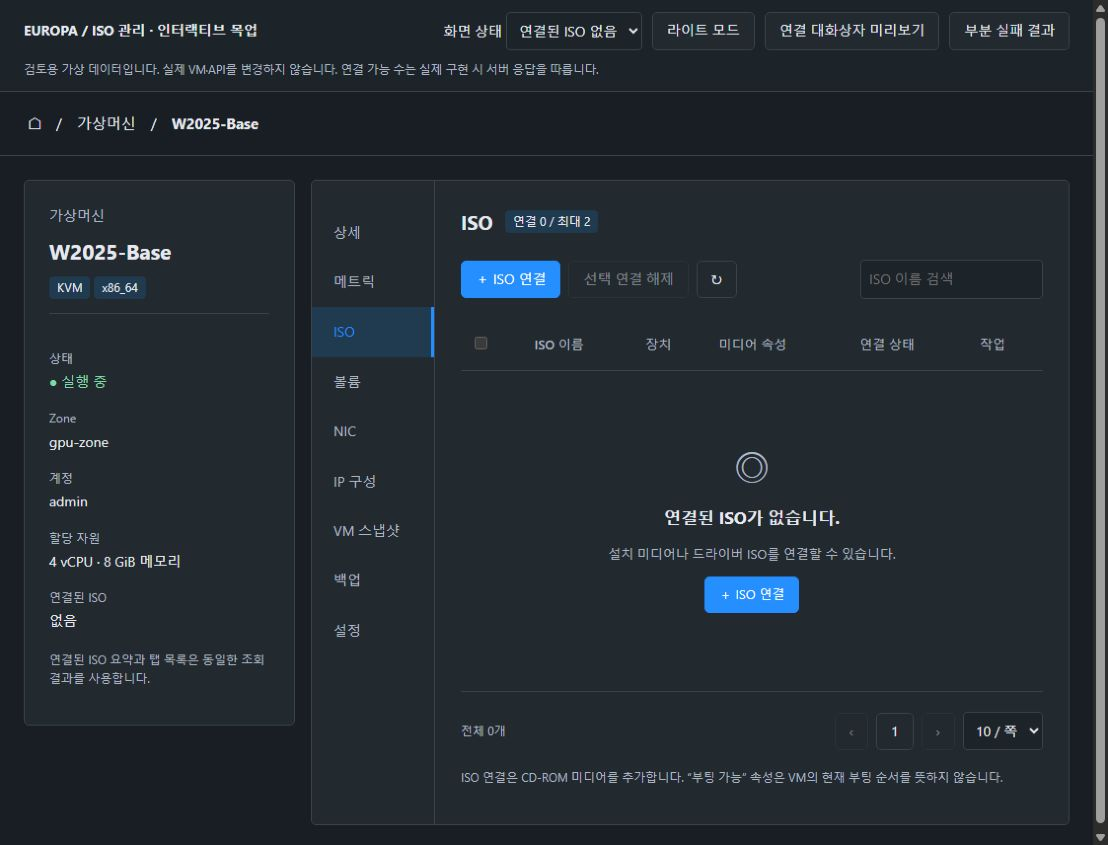
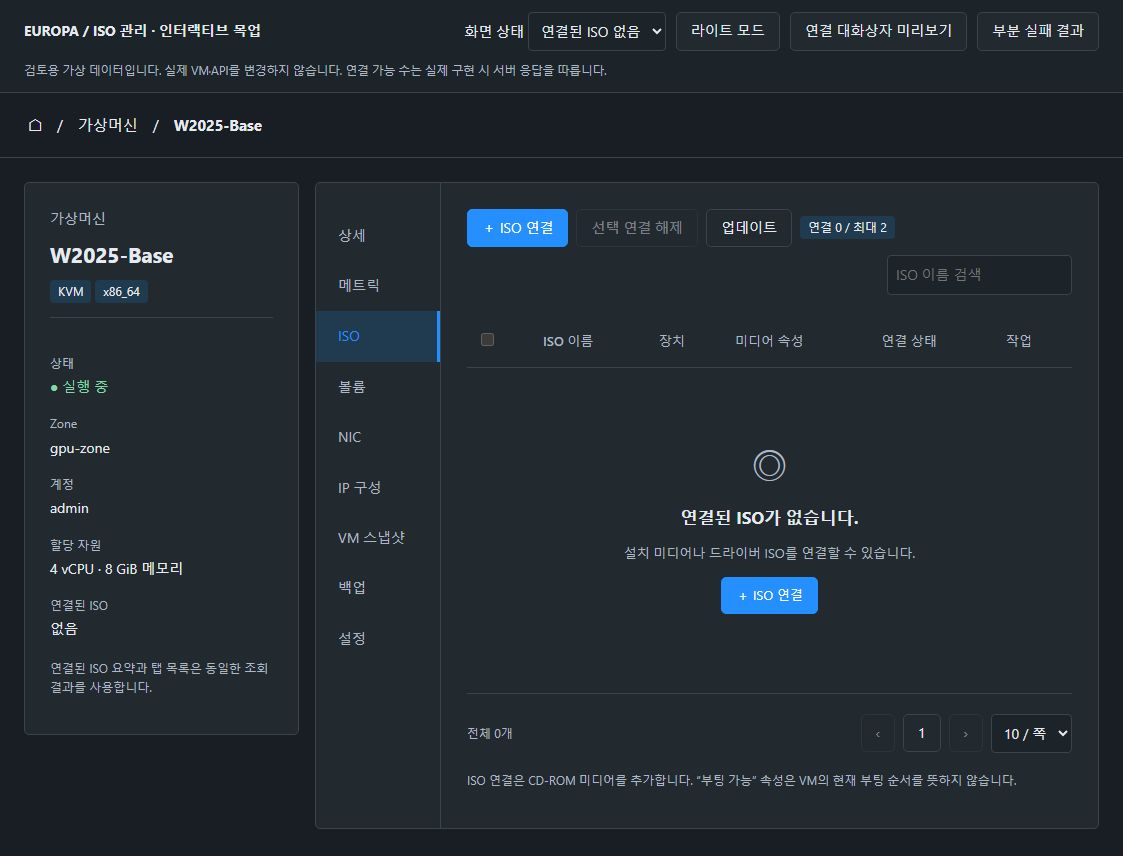
docs: ISO 목업 타이틀 제거 및 업데이트 텍스트 버튼 적용

diff --git a/docs/design/iso-tab-20260918/mockup.html b/docs/design/iso-tab-20260918/mockup.html
@@ -5,7 +5,7 @@
 </style>
 <div class="lab"><strong>EUROPA / ISO 관리 · 인터랙티브 목업</strong><label>화면 상태 <select id="scenario"><option value="two">ISO 2개 연결됨</option><option value="empty">연결된 ISO 없음</option><option value="one">ISO 1개 연결됨</option><option value="error">목록 조회 실패</option><option value="readonly">조회 전용</option></select></label><button id="theme">라이트 모드</button><button onclick="openModal('attach',true)">연결 대화상자 미리보기</button><button onclick="openModal('result')">부분 실패 결과</button><small>검토용 가상 데이터입니다. 실제 VM·API를 변경하지 않습니다. 연결 가능 수는 실제 구현 시 서버 응답을 따릅니다.</small></div>
 <div class="top">⌂　/　가상머신　/　<strong>W2025-Base</strong></div>
-<div class="layout"><aside class="card"><div class="muted">가상머신</div><h2>W2025-Base</h2><span class="tag">KVM</span> <span class="tag">x86_64</span><dl><dt>상태</dt><dd class="green">● 실행 중</dd><dt>Zone</dt><dd>gpu-zone</dd><dt>계정</dt><dd>admin</dd><dt>할당 자원</dt><dd>4 vCPU · 8 GiB 메모리</dd><dt>연결된 ISO</dt><dd id="summary"></dd></dl><p class="note">연결된 ISO 요약과 탭 목록은 동일한 조회 결과를 사용합니다.</p></aside><section class="content"><nav class="tabs"><div>상세</div><div>메트릭</div><div class="active">ISO</div><div>볼륨</div><div>NIC</div><div>IP 구성</div><div>VM 스냅샷</div><div>백업</div><div>설정</div></nav><main><div class="title"><h2>ISO</h2><span id="count" class="tag"></span></div><div class="toolbar"><button id="attach" class="primary" onclick="openModal('attach')">＋ ISO 연결</button><button id="batch" onclick="openDetach(selectedRows())" disabled>선택 연결 해제</button><button onclick="render()" aria-label="새로고침" title="새로고침">↻</button><input class="search" id="search" placeholder="ISO 이름 검색" aria-label="ISO 이름 검색"></div><div id="banner"></div><div class="listwrap"><table><thead><tr><th><input type="checkbox" id="all" aria-label="전체 선택" onchange="document.querySelectorAll('.pick').forEach(x=>x.checked=this.checked); updateBatch()"></th><th>ISO 이름</th><th>장치</th><th>미디어 속성</th><th>연결 상태</th><th>작업</th></tr></thead><tbody id="rows"></tbody></table></div><div class="pager"><span id="total"></span><button disabled>‹</button><button aria-current="page">1</button><button disabled>›</button><select aria-label="페이지 크기"><option>10 / 쪽</option><option>20 / 쪽</option></select></div><p class="note">ISO 연결은 CD-ROM 미디어를 추가합니다. “부팅 가능” 속성은 VM의 현재 부팅 순서를 뜻하지 않습니다.</p></main></section></div>
+<div class="layout"><aside class="card"><div class="muted">가상머신</div><h2>W2025-Base</h2><span class="tag">KVM</span> <span class="tag">x86_64</span><dl><dt>상태</dt><dd class="green">● 실행 중</dd><dt>Zone</dt><dd>gpu-zone</dd><dt>계정</dt><dd>admin</dd><dt>할당 자원</dt><dd>4 vCPU · 8 GiB 메모리</dd><dt>연결된 ISO</dt><dd id="summary"></dd></dl><p class="note">연결된 ISO 요약과 탭 목록은 동일한 조회 결과를 사용합니다.</p></aside><section class="content"><nav class="tabs"><div>상세</div><div>메트릭</div><div class="active">ISO</div><div>볼륨</div><div>NIC</div><div>IP 구성</div><div>VM 스냅샷</div><div>백업</div><div>설정</div></nav><main><div class="toolbar"><button id="attach" class="primary" onclick="openModal('attach')">＋ ISO 연결</button><button id="batch" onclick="openDetach(selectedRows())" disabled>선택 연결 해제</button><button onclick="render()">업데이트</button><span id="count" class="tag"></span><input class="search" id="search" placeholder="ISO 이름 검색" aria-label="ISO 이름 검색"></div><div id="banner"></div><div class="listwrap"><table><thead><tr><th><input type="checkbox" id="all" aria-label="전체 선택" onchange="document.querySelectorAll('.pick').forEach(x=>x.checked=this.checked); updateBatch()"></th><th>ISO 이름</th><th>장치</th><th>미디어 속성</th><th>연결 상태</th><th>작업</th></tr></thead><tbody id="rows"></tbody></table></div><div class="pager"><span id="total"></span><button disabled>‹</button><button aria-current="page">1</button><button disabled>›</button><select aria-label="페이지 크기"><option>10 / 쪽</option><option>20 / 쪽</option></select></div><p class="note">ISO 연결은 CD-ROM 미디어를 추가합니다. “부팅 가능” 속성은 VM의 현재 부팅 순서를 뜻하지 않습니다.</p></main></section></div>
 <div class="overlay" id="overlay" hidden><section class="modal" role="dialog" aria-modal="true" aria-labelledby="modalTitle"><header><h2 id="modalTitle"></h2><button onclick="closeModal()" aria-label="닫기">×</button></header><div class="body" id="body"></div><footer id="footer"></footer></section></div>
 <script>
 const data=[{id:'windows',name:'Windows Server 2025 x86_64 DVD',file:'Windows_Server_2025.iso',slot:'hdc',boot:true,size:'5.9 GiB'},{id:'virtio',name:'VirtIO Windows 드라이버',file:'virtio-win-0.1.285.iso',slot:'hdd',boot:false,size:'701 MiB'}];let attached=[...data],mode='two',modalType='',detachIds=[],preview=false,previousFocus=null;const $=id=>document.getElementById(id);const context=()=>'<div class="context"><div><span>가상머신</span>W2025-Base</div><div><span>Zone / 계정</span>gpu-zone / admin</div></div>';
@@ -23,4 +23,6 @@ function openDetach(ids){detachIds=ids;document.querySelectorAll('.menu').forEac
 function openDetails(id){const x=data.find(x=>x.id===id);show('ISO 상세',context()+`<dl><dt>이름</dt><dd>${x.name}</dd><dt>파일</dt><dd>${x.file}</dd><dt>장치</dt><dd>${x.slot}</dd><dt>연결 상태</dt><dd class="green">연결됨</dd><dt>미디어 속성</dt><dd>${x.boot?'부팅 가능':'데이터 미디어'}</dd><dt>크기</dt><dd>${x.size}</dd><dt>Zone</dt><dd>gpu-zone</dd></dl><p class="note">장치와 연결 상태는 최신 VM 조회 결과를 기준으로 표시합니다.</p>`,'<button class="primary" onclick="closeModal()">닫기</button>')}
 document.addEventListener('keydown',e=>{if($('overlay').hidden)return;if(e.key==='Escape')closeModal();if(e.key==='Tab'){const els=[...document.querySelectorAll('.modal button:not(:disabled),.modal input:not(:disabled)')].filter(x=>x.offsetParent!==null);const first=els[0],last=els[els.length-1];if(e.shiftKey&&document.activeElement===first){e.preventDefault();last.focus()}else if(!e.shiftKey&&document.activeElement===last){e.preventDefault();first.focus()}}});render();
 </script></html>
+
+
 

diff --git a/docs/design/iso-tab-20260918/README.md b/docs/design/iso-tab-20260918/README.md
@@ -10,8 +10,8 @@
 
 ## 화면 설계
 
-- ISO 0개여도 탭 유지. 볼륨/VM 스냅샷 형태의 툴바와 테이블, 검색, 페이지 구성.
-- 연결 버튼 → 선택 연결 해제 → 새로고침 아이콘 → 우측 검색.
+- 탭 내부 타이틀 없이 툴바부터 시작. ISO 0개여도 탭 유지. 볼륨/VM 스냅샷 형태의 툴바와 테이블, 검색, 페이지 구성.
+- 연결 버튼 → 선택 연결 해제 → 업데이트 텍스트 버튼 → 우측 검색.
 - 장치별 ISO 행과 연결 상태. 좌측 요약도 같은 최신 데이터로 갱신.
 - 행 작업은 연결 해제 → 상세 순서. 파일 삭제 또는 부팅 순서 변경과 구분.
 - 연결 대화상자: VM/Zone/계정 명시, 준비된 ISO만 선택, 연결된 항목 제외, 추가 가능 수 안내.
@@ -41,3 +41,4 @@
 |라이트 목록|![목록](11-tab-light.png)|
 |ISO 상세|![상세](12-detail-light.png)|
 |조회 실패|![조회 실패](13-load-error-dark.png)|
+
